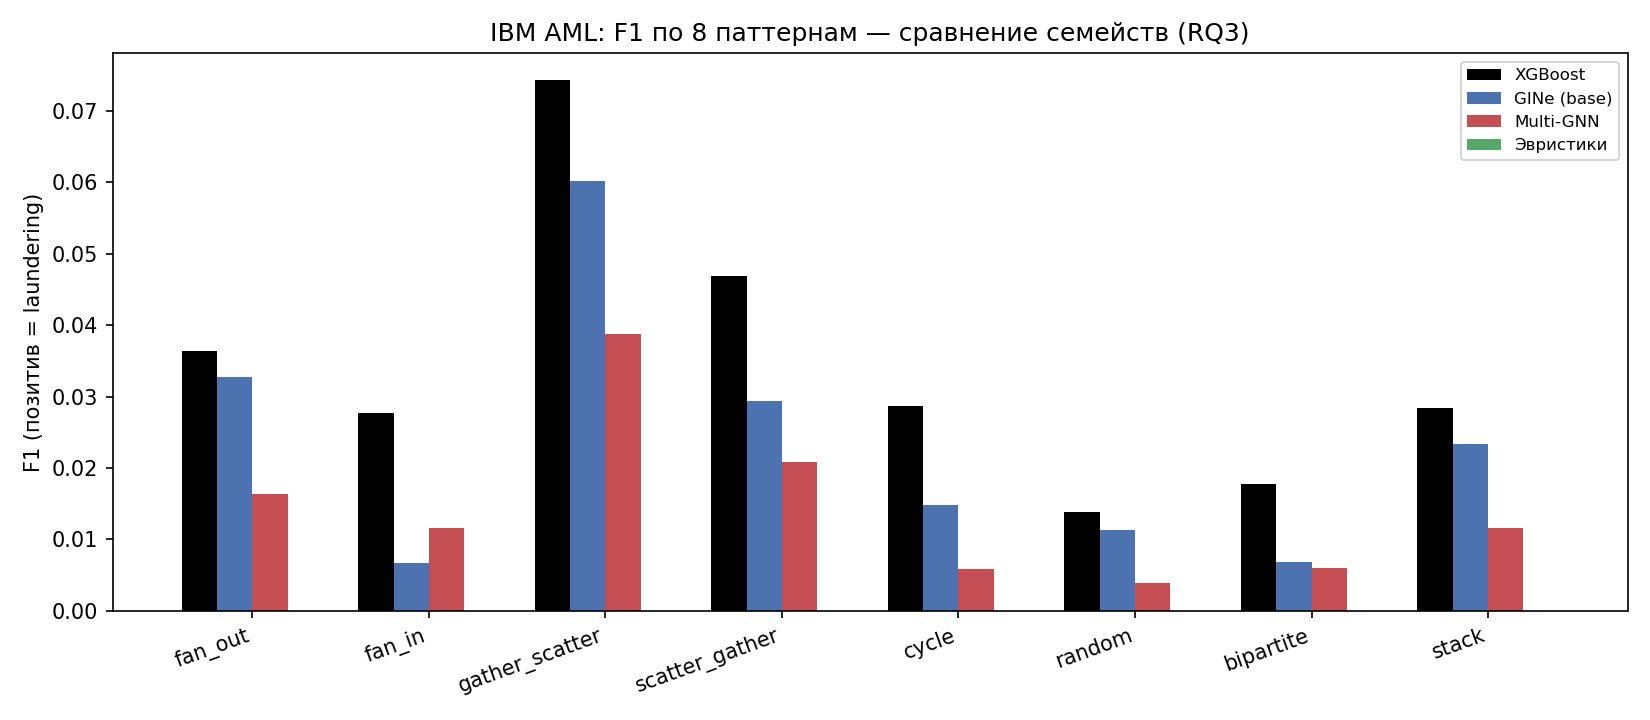
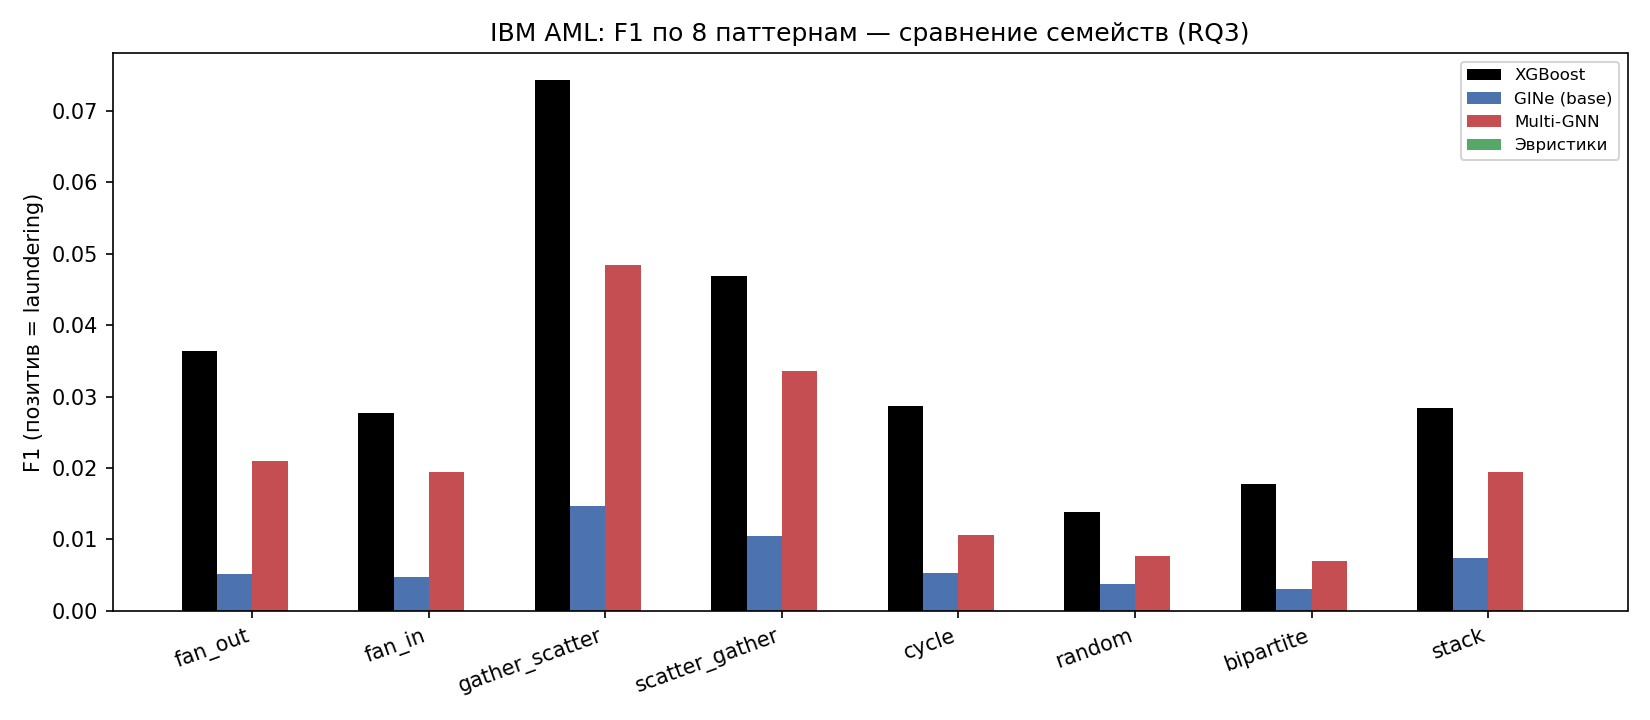
docs: пересборка IBM-сводок после P0-фиксов (edge-head + строгий контекст)

diff --git a/results/per_pattern.md b/results/per_pattern.md
@@ -14,12 +14,12 @@ laundering-рёбрам». Строка `unknown` — справочно.
 
 | pattern | n_pos | XGBoost | GINe (base) | Multi-GNN | Эвристики |
 |---|---|---|---|---|---|
-| fan_out | 140 | **0.036** | 0.033 | 0.016 | 0.000 |
-| fan_in | 137 | **0.028** | 0.007 | 0.012 | 0.000 |
-| gather_scatter | 401 | **0.074** | 0.060 | 0.039 | 0.000 |
-| scatter_gather | 252 | **0.047** | 0.029 | 0.021 | 0.000 |
-| cycle | 109 | **0.029** | 0.015 | 0.006 | 0.000 |
-| random | 86 | **0.014** | 0.011 | 0.004 | 0.000 |
-| bipartite | 74 | **0.018** | 0.007 | 0.006 | 0.000 |
-| stack | 140 | **0.028** | 0.023 | 0.012 | 0.000 |
-| unknown | 459 | 0.046 | 0.033 | 0.002 | 0.003 |
+| fan_out | 140 | **0.036** | 0.005 | 0.021 | 0.000 |
+| fan_in | 137 | **0.028** | 0.005 | 0.020 | 0.000 |
+| gather_scatter | 401 | **0.074** | 0.015 | 0.048 | 0.000 |
+| scatter_gather | 252 | **0.047** | 0.011 | 0.034 | 0.000 |
+| cycle | 109 | **0.029** | 0.005 | 0.011 | 0.000 |
+| random | 86 | **0.014** | 0.004 | 0.008 | 0.000 |
+| bipartite | 74 | **0.018** | 0.003 | 0.007 | 0.000 |
+| stack | 140 | **0.028** | 0.007 | 0.019 | 0.000 |
+| unknown | 459 | 0.046 | 0.009 | 0.029 | 0.003 |

diff --git a/results/ibm_comparison.md b/results/ibm_comparison.md
@@ -6,8 +6,8 @@
 | variant | auc_pr | f1 | recall_at_precision_90 | recall |
 |---|---|---|---|---|
 | XGBoost | 0.1289 | 0.1900 | 0.0000 | 0.2508 |
-| GINe (base) | 0.0492 | 0.1344 | 0.0000 | 0.1746 |
-| +reverse | 0.0290 | 0.0776 | 0.0017 | 0.0795 |
-| +port | 0.0507 | 0.1248 | 0.0006 | 0.1591 |
-| +ego | 0.0543 | 0.1505 | 0.0000 | 0.1691 |
-| Multi-GNN (full) | 0.0290 | 0.0664 | 0.0000 | 0.0712 |
+| GINe (base) | 0.0190 | 0.0562 | 0.0000 | 0.2442 |
+| +reverse | 0.0396 | 0.0851 | 0.0000 | 0.1529 |
+| +port | 0.0385 | 0.1055 | 0.0000 | 0.1329 |
+| +ego | 0.0366 | 0.1077 | 0.0000 | 0.1774 |
+| Multi-GNN (full) | 0.0510 | 0.1202 | 0.0000 | 0.1529 |